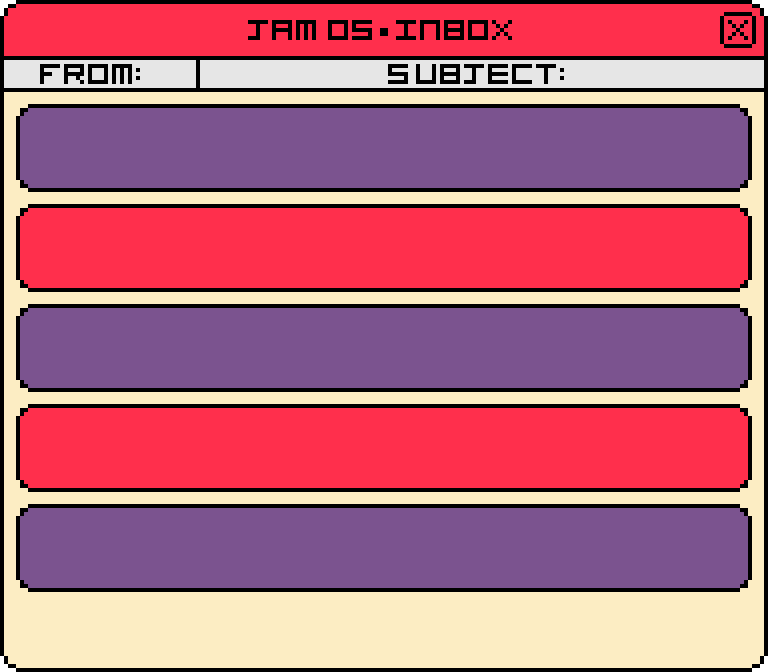
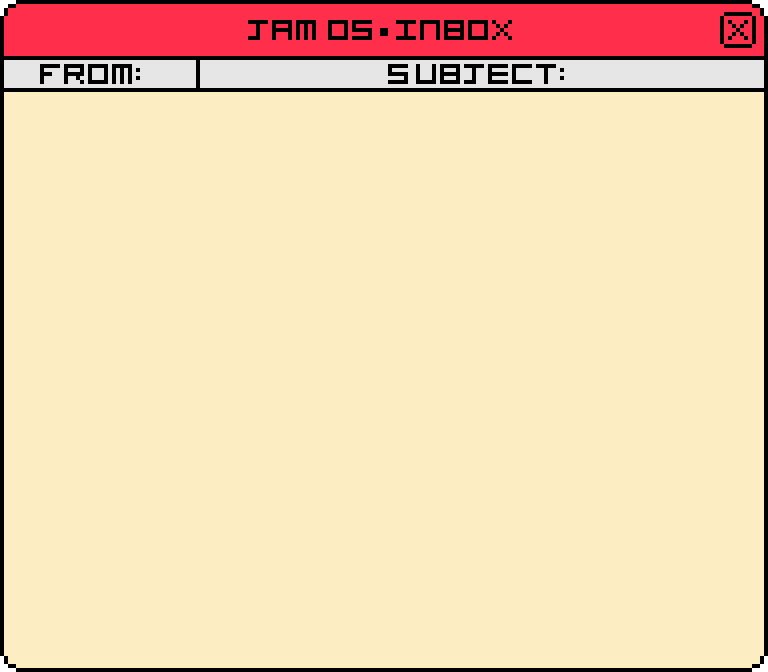
new inbox img

diff --git a/src/app/classes/entities/static-entities/computer-screen/computer-apps/email/email-inbox.js b/src/app/classes/entities/static-entities/computer-screen/computer-apps/email/email-inbox.js
@@ -40,21 +40,21 @@ export class EmailInbox extends StaticEntity {
   }
 
   initializeEmailItems() {
-    let xx = this.paddingX + 16;
-    let yy = this.paddingY + 64 + 38;
+    let xx = this.paddingX + 16 +4;
+    let yy = this.paddingY + 118;
 
     const subjectColX = xx + 74
 
     for (let i = 0; i < this.emails.length; i += 1) {
       const email = this.emails[i];
-      const bgColor = (i % 2) ? GameConstants.COLORS.PURPLE : GameConstants.COLORS.RED;
-      const highlightColor = (i % 2) ? GameConstants.COLORS.LIGHT_PURPLE : GameConstants.COLORS.LIGHT_RED;
+      const bgColor = (i % 2) ? GameConstants.COLORS.RED : GameConstants.COLORS.PURPLE;
+      const highlightColor = (i % 2) ? GameConstants.COLORS.LIGHT_RED : GameConstants.COLORS.LIGHT_PURPLE;
 
       const emailItem = new EmailInboxItem(
         this.handler,
         xx,
         yy,
-        this.width,
+        this.width-8,
         34,
         email,
         bgColor,
